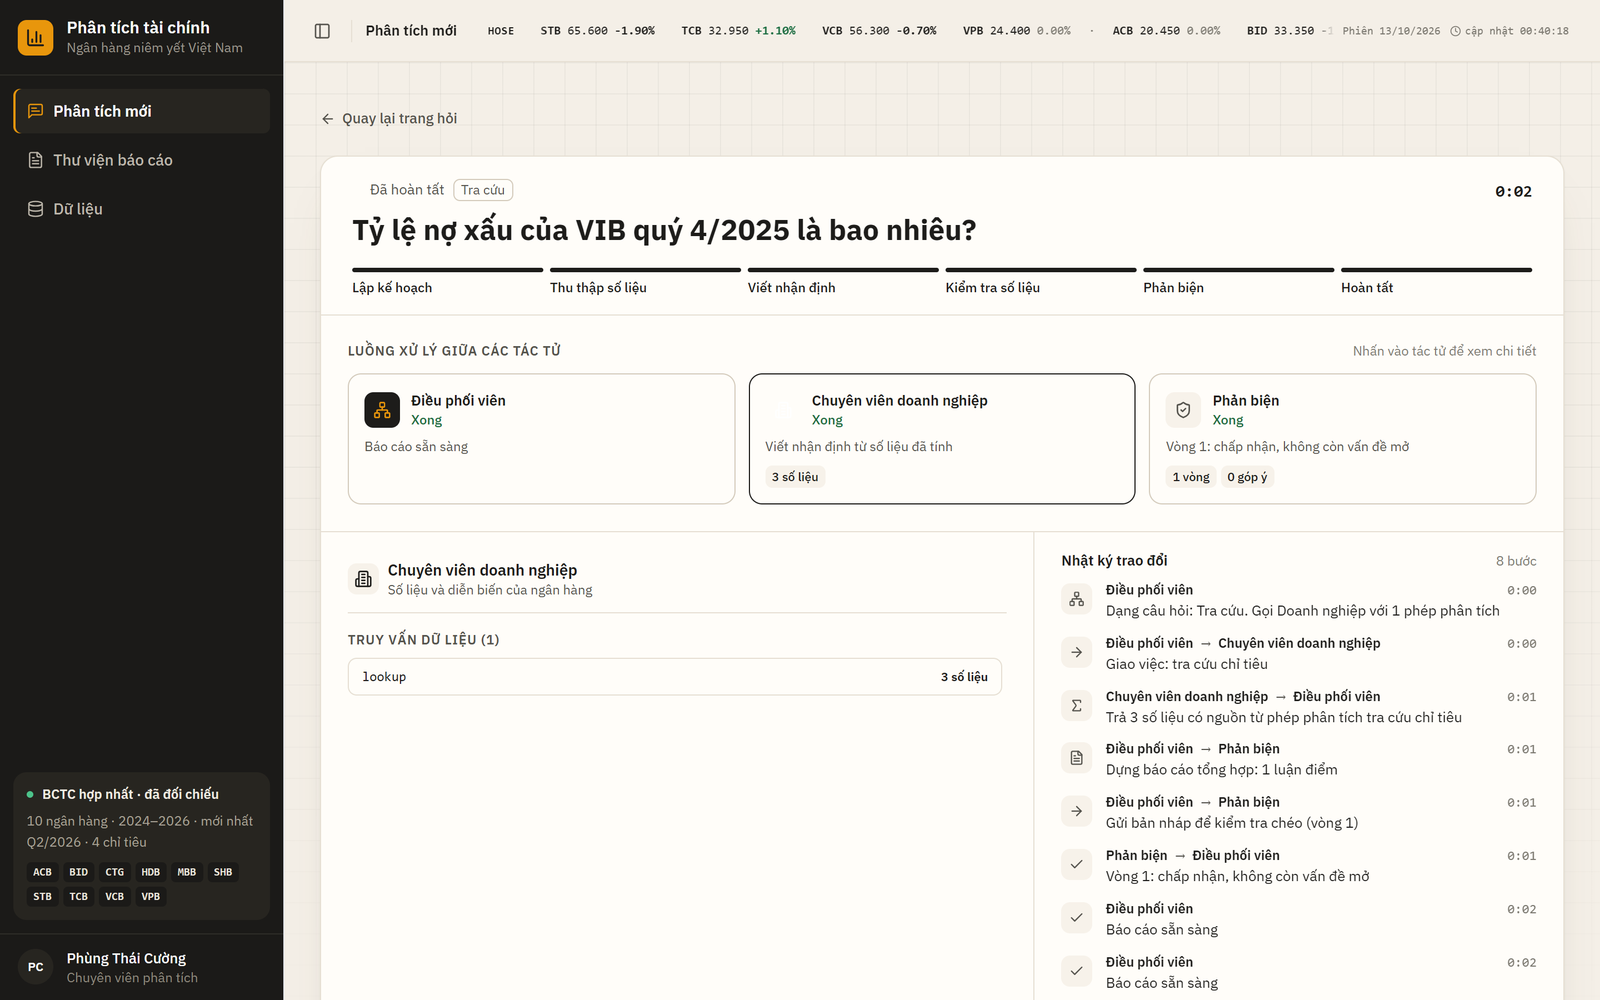
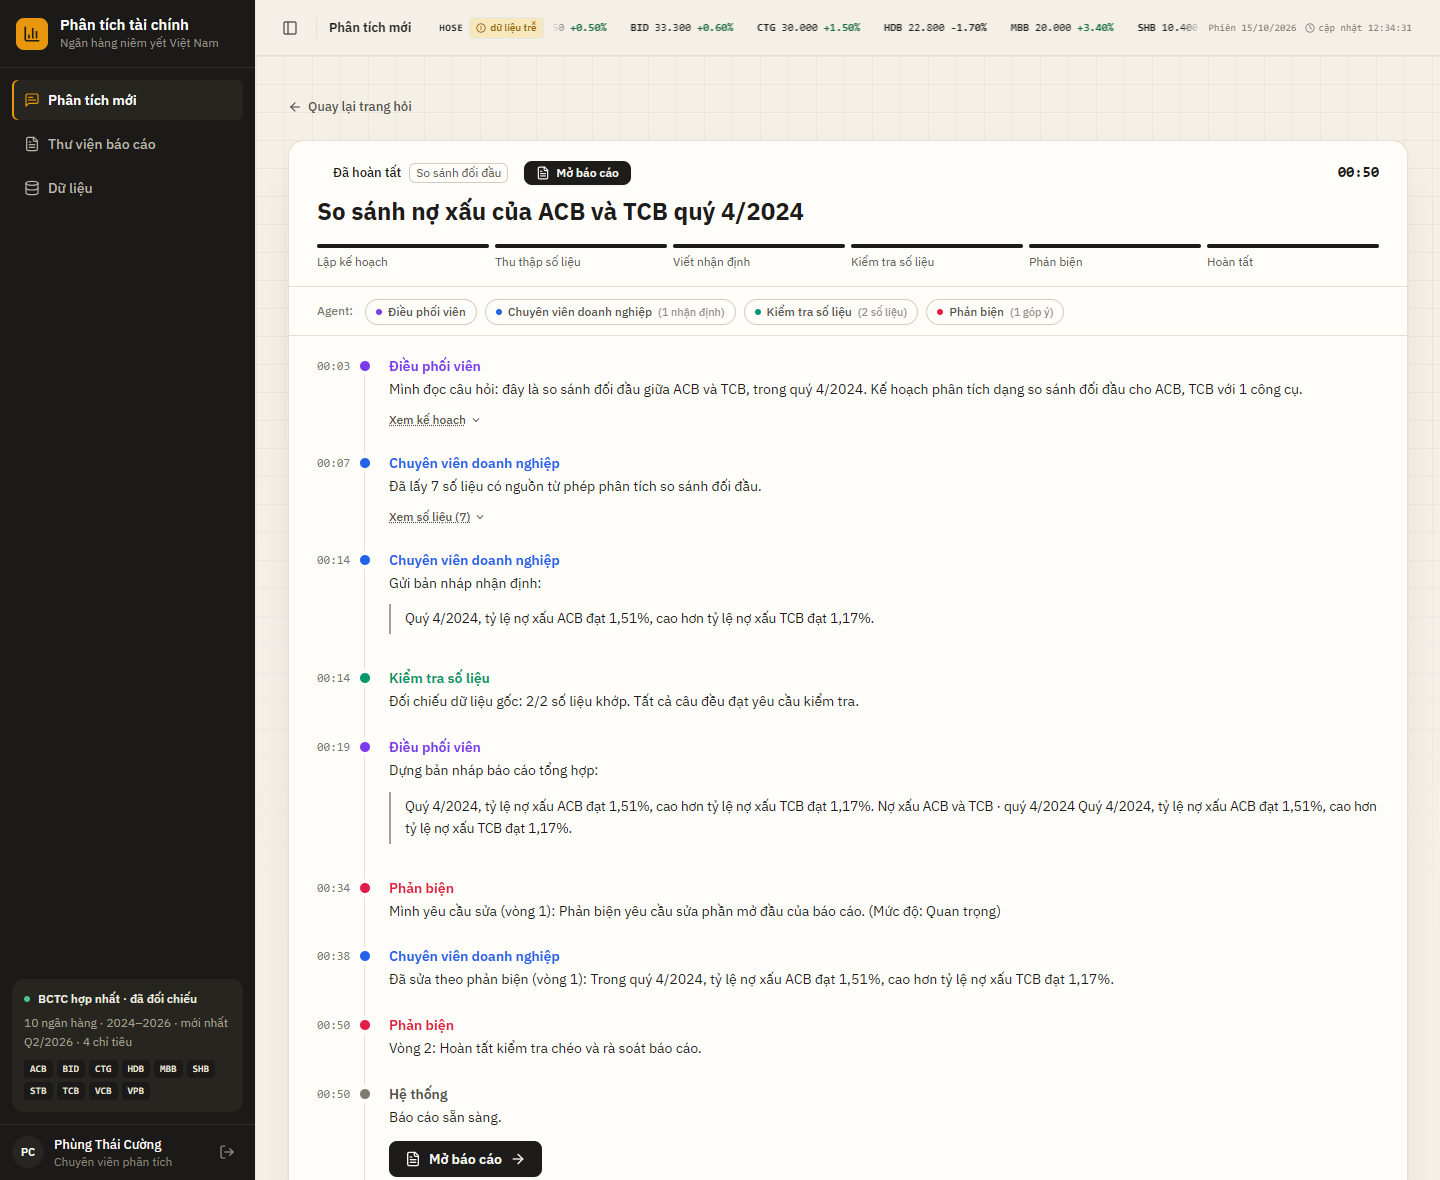
docs(thesis): [FIG45] refresh Fig 4.5 with reasoning timeline (#174)

diff --git a/docs/thesis-v2/chuong-4b-minh-hoa-san-pham.md b/docs/thesis-v2/chuong-4b-minh-hoa-san-pham.md
@@ -1,6 +1,6 @@
 ## 4.5. Sản phẩm theo luồng sử dụng
 
-Mục này đi qua sản phẩm theo thứ tự một chuyên viên phân tích sử dụng: xem dữ liệu, đặt câu hỏi, theo dõi các tác tử, đọc báo cáo, kiểm tra lại quá trình và thêm một ngân hàng mới. Các ảnh được chụp ngày 14/10/2026: Hình 4.5 và 4.9–4.11 từ bản đang vận hành tại https://fin-ai.eddiephung.me, còn Hình 4.4 và 4.6–4.8 từ mã nguồn giao diện hiện hành kết nối với máy chủ phân tích đang vận hành, mở lại các báo cáo đã lưu trong Thư viện báo cáo. Bộ dữ liệu là mười ngân hàng đã đối soát.
+Mục này đi qua sản phẩm theo thứ tự một chuyên viên phân tích sử dụng: xem dữ liệu, đặt câu hỏi, theo dõi các tác tử, đọc báo cáo, kiểm tra lại quá trình và thêm một ngân hàng mới. Các ảnh được chụp ngày 14–15/10/2026: Hình 4.5 và 4.9–4.11 từ bản đang vận hành tại https://fin-ai.eddiephung.me, còn Hình 4.4 và 4.6–4.8 từ mã nguồn giao diện hiện hành kết nối với máy chủ phân tích đang vận hành, mở lại các báo cáo đã lưu trong Thư viện báo cáo. Bộ dữ liệu là mười ngân hàng đã đối soát.
 
 **Xem dữ liệu.** Trang Dữ liệu cho biết hệ thống có những ngân hàng, kỳ và chỉ tiêu nào. Bảng độ phủ cho thấy từng ngân hàng ở từng quý có đủ số liệu hay không (hiện đủ 100/100 ô); nếu một quý chưa có báo cáo, ô đó được đánh dấu thay vì điền ước tính. Bên dưới là định nghĩa, công thức của từng chỉ tiêu và khu vực tải lên ngân hàng mới. Thông tin được lấy trực tiếp từ máy chủ nên luôn khớp với dữ liệu thực sự dùng để phân tích.
 
@@ -8,11 +8,11 @@ Mục này đi qua sản phẩm theo thứ tự một chuyên viên phân tích 
 
 Hình 4.4: Trang Dữ liệu – độ phủ mười ngân hàng theo từng quý
 
-**Đặt câu hỏi và theo dõi tác tử.** Màn hình chính chỉ có một ô nhập câu hỏi tiếng Việt cùng các câu hỏi gợi ý; người dùng không cần chọn ngân hàng, kỳ hay chỉ tiêu từ danh sách. Sau khi gửi, người dùng thấy điều phối viên xác định dạng câu hỏi và giao việc cho các chuyên viên; chỉ những tác tử thực sự tham gia mới hiện ra. Mỗi thẻ cho biết chuyên viên đang làm gì và đã trả về bao nhiêu số liệu có nguồn, và dòng thời gian các bước cập nhật trực tiếp trong lúc hệ thống chạy.
+**Đặt câu hỏi và theo dõi tác tử.** Màn hình chính chỉ có một ô nhập câu hỏi tiếng Việt cùng các câu hỏi gợi ý; người dùng không cần chọn ngân hàng, kỳ hay chỉ tiêu từ danh sách. Sau khi gửi, người dùng thấy điều phối viên xác định dạng câu hỏi và giao việc cho các chuyên viên; chỉ những tác tử thực sự tham gia mới hiện ra. Các bước hiện ra theo thứ tự thời gian như một cuộc trao đổi, mỗi mục có mốc thời gian và tên agent: điều phối viên nêu cách hiểu câu hỏi và kế hoạch, chuyên viên cho biết đã lấy bao nhiêu số liệu có nguồn rồi bản nháp nhận định chảy ra từng đoạn, bộ kiểm tra số liệu xác nhận bao nhiêu số khớp, và bộ phản biện nêu yêu cầu sửa nếu có. Nội dung hiển thị là các kết quả có cấu trúc mà từng agent đã công bố, không phải suy nghĩ thô của mô hình. Khi xong, mục cuối có nút "Mở báo cáo".
 
 ![](docs/thesis-v2/screenshots/03-dieu-phoi.png)
 
-Hình 4.5: Màn hình điều phối – các tác tử nhận việc và trả kết quả theo thời gian thực
+Hình 4.5: Dòng suy luận – các agent nhận việc, trả kết quả và kiểm tra lẫn nhau theo thời gian thực
 
 **Đọc báo cáo.** Báo cáo trình bày theo phong cách báo cáo phân tích đầu tư: tiêu đề nêu kết luận, trạng thái kiểm định và phạm vi dữ liệu, rồi các nhận định kèm biểu đồ. Mỗi câu có số chú thích dẫn tới báo cáo tài chính gốc kèm số trang; câu dựa trên nhiều nguồn hiện ba số đầu và gộp phần còn lại thành "+N", danh sách đầy đủ nằm ở mục Nguồn. Khối tín hiệu tóm tắt vị thế so với nhóm theo từng khía cạnh, và các phát hiện liên tầng được đặt trong khối lưu ý riêng. Dòng "Thị trường" dưới các chỉ số chính đưa giá đóng cửa và hệ số P/B vào báo cáo như một bối cảnh tham khảo, có ghi nguồn và phiên giao dịch, tách khỏi số liệu báo cáo tài chính.
 
